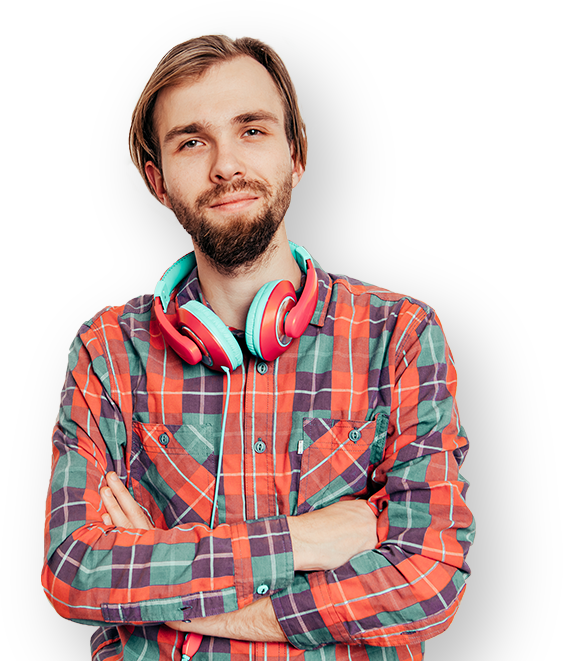
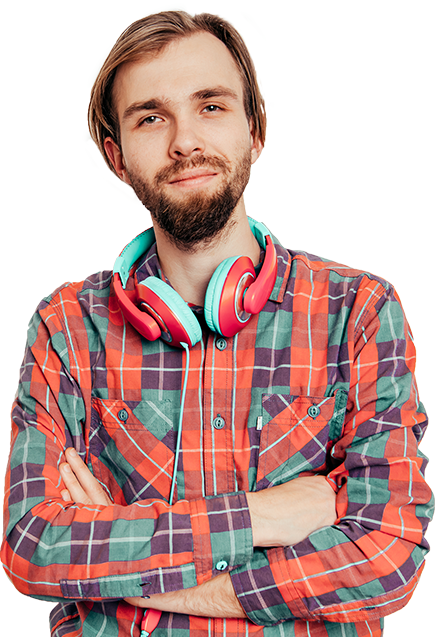
correct main img in about section

diff --git a/src/html/about.html b/src/html/about.html
@@ -10,8 +10,10 @@
     </div>
 
     <img
-      src="https://via.placeholder.com/435x637"
+      src="img/main-photo.png"
       alt="Парень с бородой в наушниках на шее и в клетчатой рубашке, фото по пояс"
+      width="435"
+      height="637"
       class="about__img"
     />
   </div>

diff --git a/src/scss/components/_about.scss b/src/scss/components/_about.scss
@@ -11,7 +11,7 @@
   }
 
   &__img {
-    margin-right: -81px;
+    margin-right: -80px;
   }
 }
 
